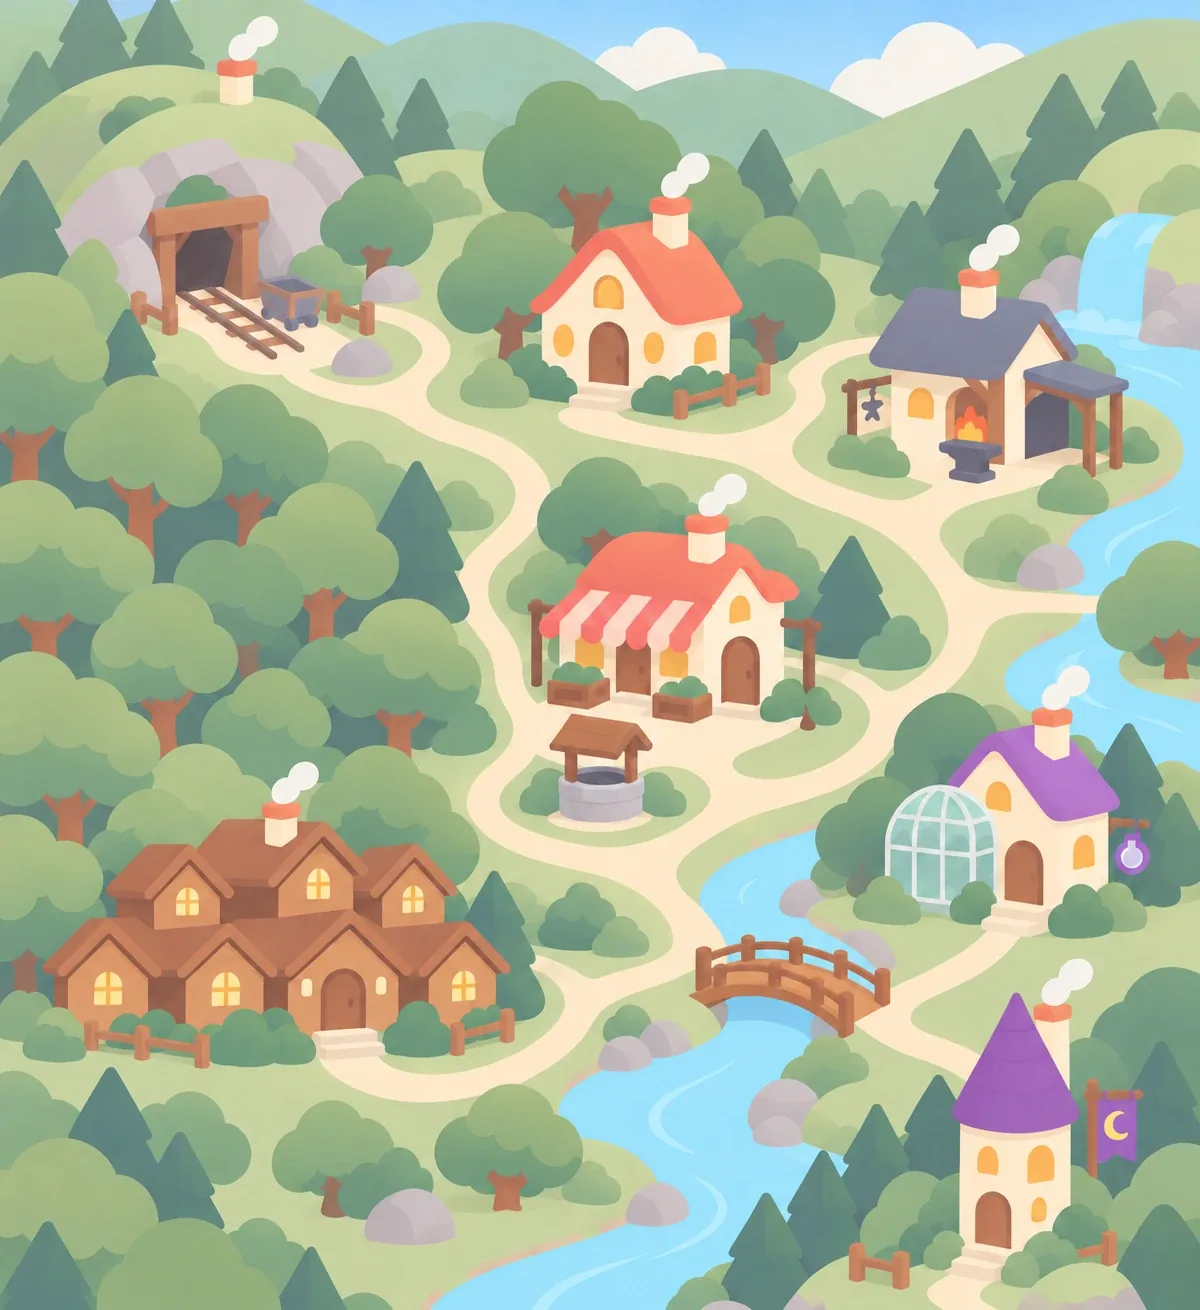
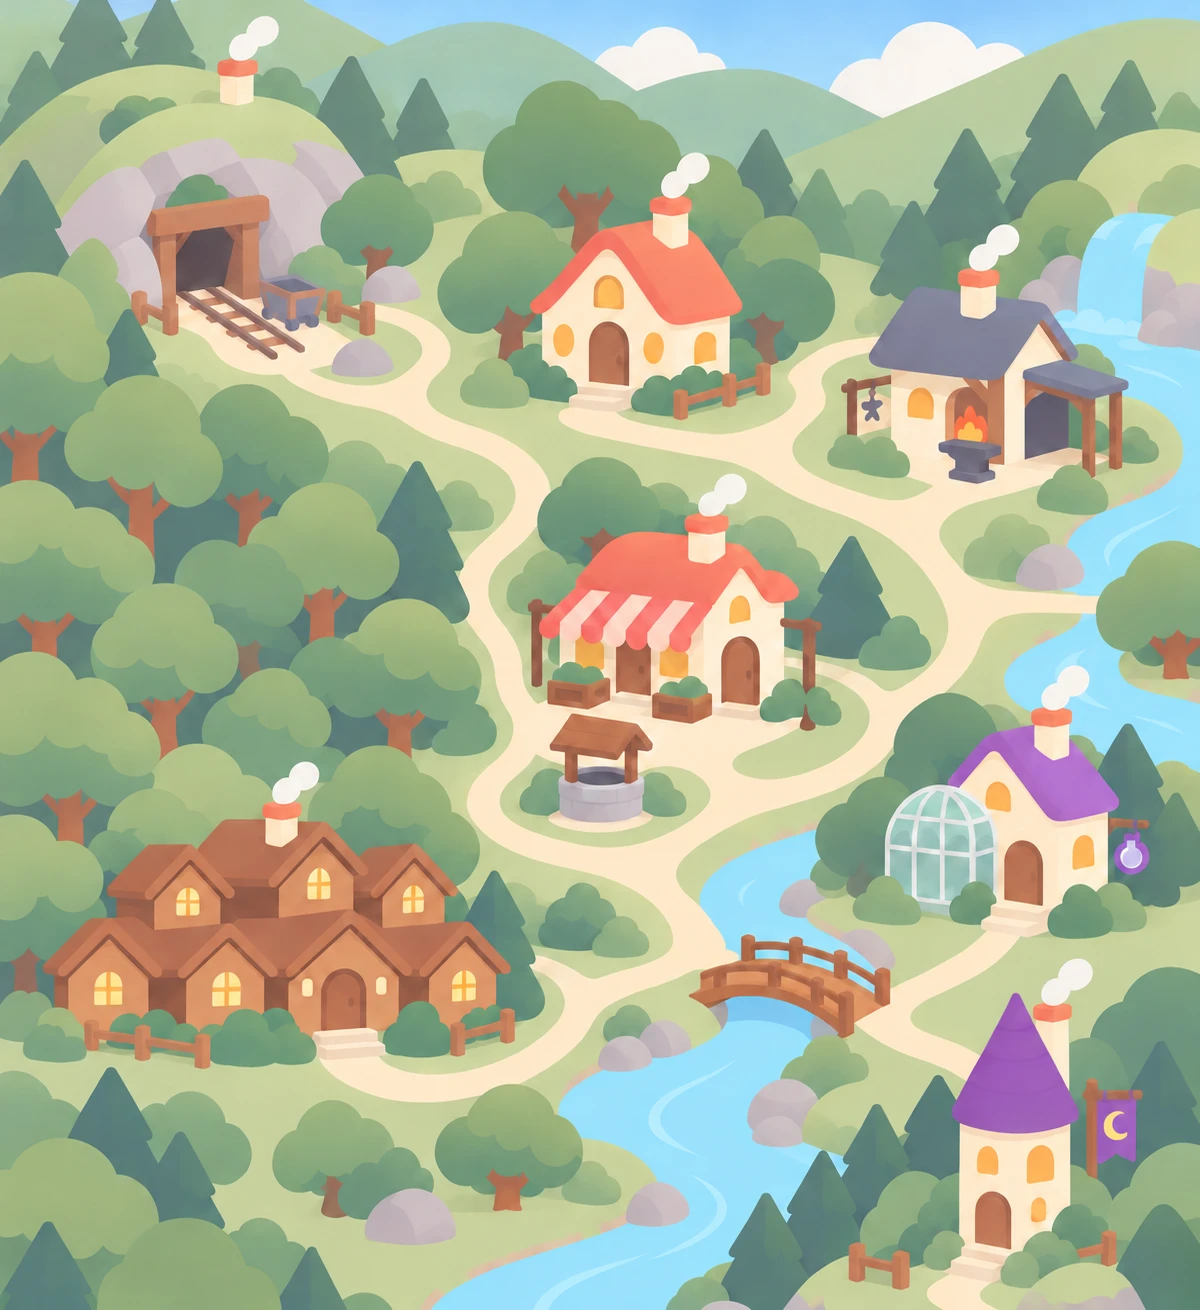
일곱 굴뚝 지도 그림 교체 (건물 자리는 그대로라 이름표도 그대로)
Claude-Session: https://claude.ai/code/session_01RZe6NgtUbyn7nAqzQfcGca

Changed region(s): [[0.555, 0.7023, 0.6167, 0.7634]]

diff --git a/index.html b/index.html
@@ -13,11 +13,11 @@
 <link rel="preconnect" href="https://fonts.googleapis.com">
 <link rel="preconnect" href="https://fonts.gstatic.com" crossorigin>
 <link href="https://fonts.googleapis.com/css2?family=Noto+Sans+KR:wght@400;500;700;800;900&display=swap" rel="stylesheet">
-<link rel="stylesheet" href="style.css?v=20261020e">
+<link rel="stylesheet" href="style.css?v=20261020f">
 <!-- ⚠ UI 색상은 «첫 페인트 전»에 정해져야 한다 — 문서 끝에 두면 기본 색으로
      한 번 그려진 뒤에 얹혀서 다크를 고른 사람에게 흰 화면이 한 번 친다.
      그래서 여기만 `defer` 없이 `<head>` 에서 읽는다 (theme.js 주석 참고) -->
-<script src="theme.js?v=20261020e"></script>
+<script src="theme.js?v=20261020f"></script>
 </head>
 <body>
 
@@ -54,7 +54,7 @@
 <div id="splash" class="splash">
   <div class="splash-inner">
     <!-- 로고 이미지(logo.png)가 있으면 그것을 사용, 없으면 아래 SVG로 자동 폴백 -->
-    <img id="splashLogoImg" class="splash-logo" src="logo.png?v=20261020e" alt="Dream Syndicate Studio"
+    <img id="splashLogoImg" class="splash-logo" src="logo.png?v=20261020f" alt="Dream Syndicate Studio"
          onerror="this.remove(); var f=document.getElementById('splashLogoSvg'); if(f) f.style.display='block';">
     <svg id="splashLogoSvg" class="splash-logo" style="display:none" viewBox="0 0 240 240" xmlns="http://www.w3.org/2000/svg" role="img" aria-label="Dream Syndicate Studio">
       <defs>
@@ -1289,38 +1289,38 @@
 <!-- ── 토스트 ── -->
 <div id="toast" class="toast"></div>
 
-<script src="i18n.js?v=20261020e"></script>
-<script src="intro.js?v=20261020e"></script>
-<script src="data.js?v=20261020e"></script>
+<script src="i18n.js?v=20261020f"></script>
+<script src="intro.js?v=20261020f"></script>
+<script src="data.js?v=20261020f"></script>
 <!-- ⚠⚠ **`roomart.js` 는 «모듈보다 먼저»** 와야 한다. 방과 소품의 그림이 여기
      한 곳에 있고, 3D 방(room3d.js · ES 모듈)이 `window.RoomArt` 로 그것을 읽는다 —
      SVG 폴백(avatar.js)도 같은 캔버스를 data URL 로 쓴다.
      (평범한 스크립트가 모듈보다 먼저 도는 것이 규칙이지만, 순서로도 적어 둔다) -->
-<script src="roomart.js?v=20261020e"></script>
-<script src="crouchart.js?v=20261020e"></script>
-<script src="earart.js?v=20261020e"></script>
-<script src="avatar.js?v=20261020e"></script>
-<script src="village.js?v=20261020e"></script>
-<script src="portrait.js?v=20261020e"></script>
+<script src="roomart.js?v=20261020f"></script>
+<script src="crouchart.js?v=20261020f"></script>
+<script src="earart.js?v=20261020f"></script>
+<script src="avatar.js?v=20261020f"></script>
+<script src="village.js?v=20261020f"></script>
+<script src="portrait.js?v=20261020f"></script>
 <!-- 애교 모션의 리그. **`creature.js` 가 그릴 때 읽으므로 그보다 먼저** 둔다
      (없어도 게임은 돈다 — 그때는 크리처가 가만히 서 있다) -->
-<script src="petidle.js?v=20261020e"></script>
-<script src="creature.js?v=20261020e"></script>
-<script src="cauldron.js?v=20261020e"></script>
-<script src="pumpkin.js?v=20261020e"></script>
-<script src="walnut.js?v=20261020e"></script>
-<script src="rock.js?v=20261020e"></script>
-<script src="fish.js?v=20261020e"></script>
-<script src="sparrow.js?v=20261020e"></script>
-<script src="pinwheel.js?v=20261020e"></script>
-<script src="driller.js?v=20261020e"></script>
-<script src="sfx.js?v=20261020e"></script>
-<script src="sync.js?v=20261020e"></script>
+<script src="petidle.js?v=20261020f"></script>
+<script src="creature.js?v=20261020f"></script>
+<script src="cauldron.js?v=20261020f"></script>
+<script src="pumpkin.js?v=20261020f"></script>
+<script src="walnut.js?v=20261020f"></script>
+<script src="rock.js?v=20261020f"></script>
+<script src="fish.js?v=20261020f"></script>
+<script src="sparrow.js?v=20261020f"></script>
+<script src="pinwheel.js?v=20261020f"></script>
+<script src="driller.js?v=20261020f"></script>
+<script src="sfx.js?v=20261020f"></script>
+<script src="sync.js?v=20261020f"></script>
 <!-- 방을 3D 로 그리는 모듈. **모듈이라 미뤄져 실행된다** — 그래서 게임은
      이것이 «없어도» 돈다 (SVG 방 그대로). 준비되면 room3d-ready 로 알린다 -->
-<script type="module" src="room3d.js?v=20261020e"></script>
-<script src="game.js?v=20261020e"></script>
-<script src="tutorial.js?v=20261020e"></script>
-<script src="a11y.js?v=20261020e"></script>
+<script type="module" src="room3d.js?v=20261020f"></script>
+<script src="game.js?v=20261020f"></script>
+<script src="tutorial.js?v=20261020f"></script>
+<script src="a11y.js?v=20261020f"></script>
 </body>
 </html>
